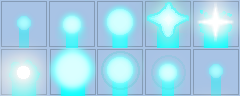
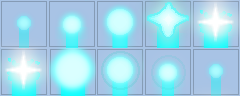
все действия анимированы

Changed region(s): [[0.0, 0.5, 0.175, 1.0]]

diff --git a/config.py b/config.py
@@ -17,11 +17,11 @@ field_sprite = 'cell1_tile.png'
 lazer_sprite = 'new_lazers2.png'
 pepl_sprite = 'animation_pepl.png'
 boom_sprite = 'cell1_tile_with_boom.png'
-pepl_boom_sprite = 'pepel_boom.png'
+pepl_boom_sprite = 'pepel_boom_a.png'
 game_over_sprite = 'game_over.png'
 game_win_screen = 'game_win.png'
 enemy_lazer_sprite = 'tile_with_red_laser_enemy_animated.png'
-enemy_pepl_sprite = 'pepl_enemy.png'
+enemy_pepl_sprite = 'pepl_enemy_a.png'
 start_screen = 'start_screen.png'
 debug_mode = 1
 

diff --git a/superhot-dev.py b/superhot-dev.py
@@ -175,12 +175,12 @@ class Pepl(ShootSprite):
 
 
 class EnemyPepl(ShootSprite):
-    frames = AnimatedSprite(load_image(config.enemy_pepl_sprite), 1, 1).frames
+    frames = AnimatedSprite(load_image(config.enemy_pepl_sprite), 5, 2).frames
     image = frames[0]
 
 
 class Pepl_Boom(ShootSprite):
-    frames = AnimatedSprite(load_image(config.pepl_boom_sprite), 1, 1).frames
+    frames = AnimatedSprite(load_image(config.pepl_boom_sprite), 5, 2).frames
     image = frames[0]
 
 
